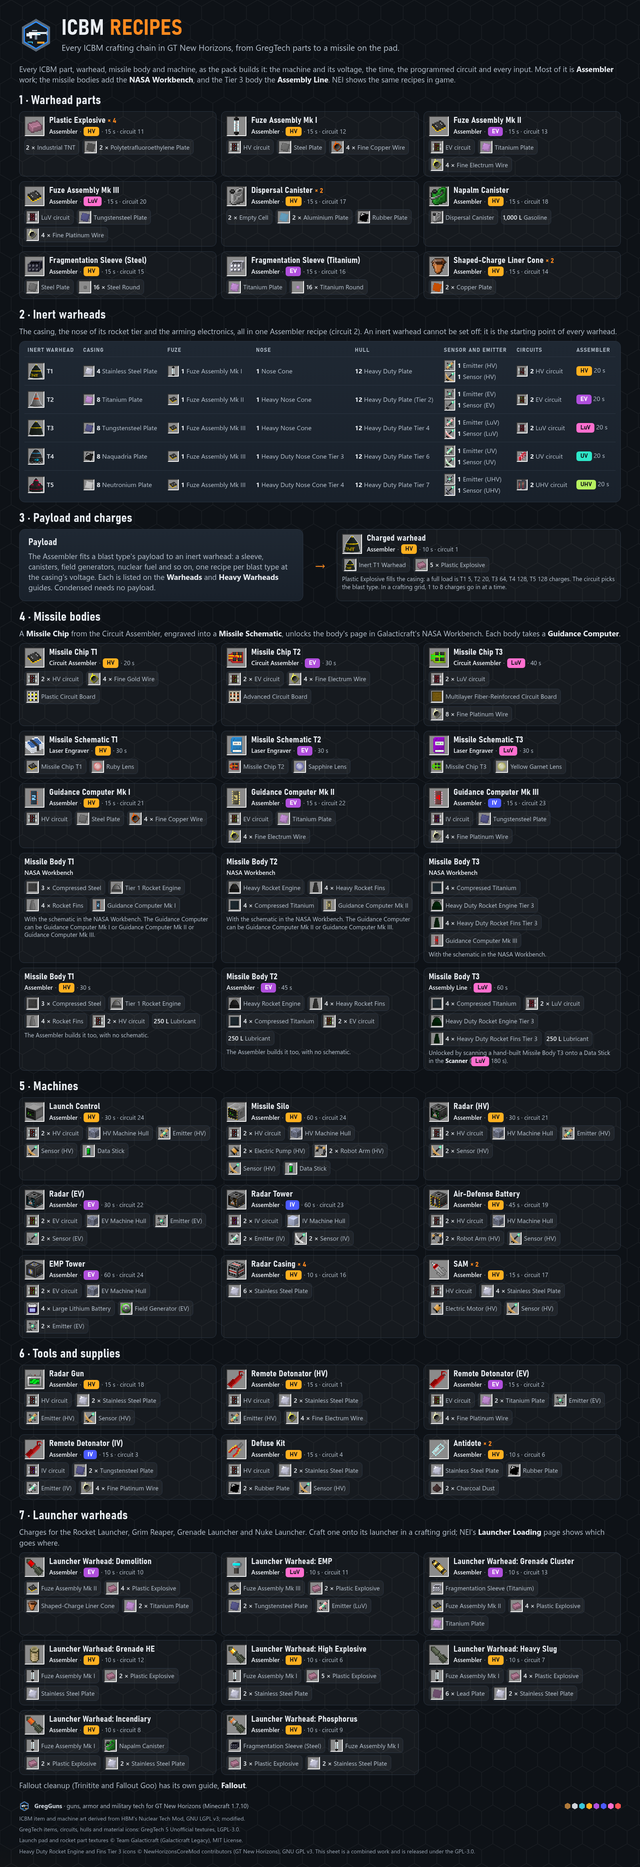
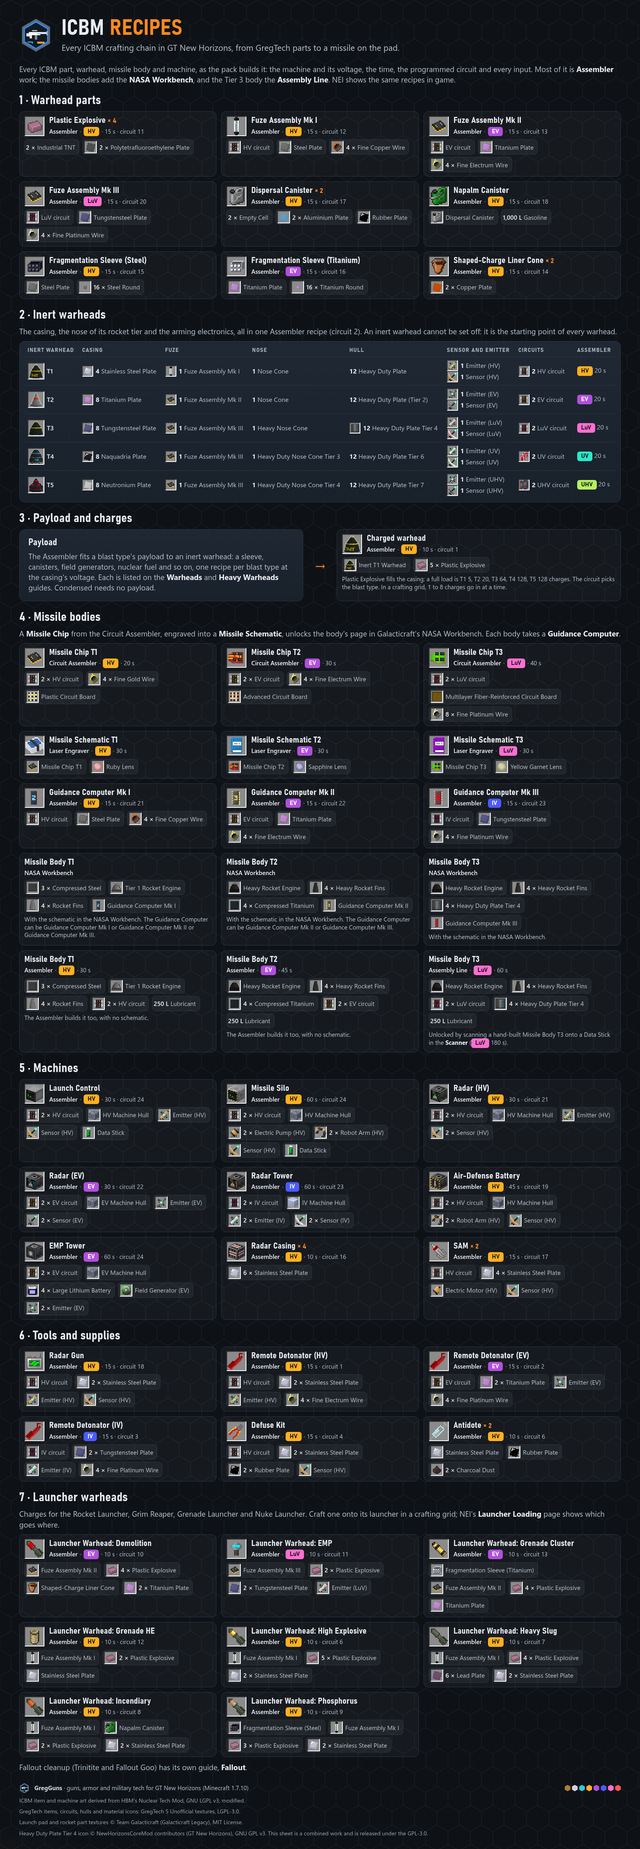
Guides on the tier fixes: warhead, recipes, silo and missile sheets rebuilt from F2's dump and code; F1, F2, F4 release-note lines
- Rebuilt on F2's real-pack dump: the Inert T2 Warhead takes a Nose Cone, and the T3 body is built from
  Heavy Duty Plates Tier 4, Heavy Rocket Fins and a Heavy Rocket Engine (icbm-warheads, icbm-recipes,
  icbm-missile-silo's Tier 3 card). icbm-first-missile names the rocket parts as the game does.
- The recipes sheet reads dump keys that carry an NBT hash, and picks the inert warhead's own recipe.
- The core-mod icon is the Heavy Duty Plate Tier 4 (GPL-3.0, from NewHorizonsCoreMod 2.9.84). The unused
  Tier 3 rocket engine and fins icons are gone. NOTICE, CREDITS and the sheet credit follow.
- unreleased.md: the T2 casing and T3 body, F2's missile/rocket ratios, the silo abort recovery and EMP silence,
  176 vending trades with eggs only for spawnable NPCs.

diff --git a/tools/asset-gen/infographics/pages_icbm_recipes.py b/tools/asset-gen/infographics/pages_icbm_recipes.py
@@ -14,7 +14,7 @@ The dump is checked against the code: each Inert Warhead's input list must match
 and each machine recipe must still be in its Java source, so a dump older than the recipes stops the build.
 
 Icons: GregGuns' own item art (the NTM-derived icons, LGPL-3.0), GregTech's items, hulls and material icons from the GT
-jar (LGPL-3.0), Galacticraft Legacy's rocket parts and NewHorizonsCoreMod's Tier 3 rocket parts from
+jar (LGPL-3.0), Galacticraft Legacy's rocket parts and NewHorizonsCoreMod's Heavy Duty Plate Tier 4 from
 inputs/thirdparty/ (MIT and GPL-3.0). Ingredients without a licensed icon are printed by name only.
 
 Run on its own:  python tools/asset-gen/infographics/pages_icbm_recipes.py
@@ -84,8 +84,13 @@ def rows(pred) -> list[dict]:
     return [r for r in dump()["rows"] if r["outputs"] and pred(r)]
 
 
+def base(key: str) -> str:
+    """A dump key without its `#nbt<hash>` suffix (stacks that carry NBT, such as a warhead with its payload)."""
+    return key.split("#", 1)[0]
+
+
 def out_key(r: dict) -> str:
-    return r["outputs"][0]["k"]
+    return base(r["outputs"][0]["k"])
 
 
 def by_output(key: str, mp: str | None = None, circuit: int | None = None) -> list[dict]:
@@ -93,6 +98,15 @@ def by_output(key: str, mp: str | None = None, circuit: int | None = None) -> li
     if not got:
         raise SystemExit(f"the recipe dump has no {mp or 'recipe'} for {key}; dump the pack again or update pages_icbm_recipes")
     return got
+
+
+def inert_row(t: int) -> dict:
+    """The Inert Warhead's own recipe (circuit 2): the one row for it that takes no inert warhead in."""
+    got = [r for r in by_output(f"gregguns:inert_warhead_t{t}:0", "gt.recipe.assembler", 2)
+           if not any("inert_warhead" in i["k"] for i in r["inputs"])]
+    if len(got) != 1:
+        raise SystemExit(f"expected one Inert T{t} Warhead recipe in the dump, found {len(got)}")
+    return got[0]
 
 
 # ---------------------------------------------------------------- names
@@ -186,6 +200,7 @@ MAP_NAME = {"gt.recipe.assembler": "Assembler", "gregguns.missileWorkbench": "NA
 
 def name(key: str) -> str:
     """The in-game name of a dump item key (mod:item:meta)."""
+    key = base(key)
     if key in FIXED:
         return FIXED[key]
     if key in FLUID:
@@ -241,8 +256,7 @@ def _gt_item_tex(folder: str, n: int) -> Path | None:
 
 
 GT_CIRCUIT_ICON = {"HV": 82, "EV": 85, "IV": 89, "LuV": 92, "ZPM": 93, "UV": 94, "UHV": 95}  # one GT circuit of the tier
-NHCORE_ICONS = {"dreamcraft:HeavyDutyRocketEngineTier3:0": TP.NHCORE / "heavy_duty_rocket_engine_t3.png",
-                "dreamcraft:HeavyDutyRocketFinsTier3:0": TP.NHCORE / "heavy_duty_rocket_fins_t3.png"}
+NHCORE_ICONS = {"dreamcraft:HeavyDutyPlateTier4:0": TP.NHCORE / "heavy_duty_plate_t4.png"}
 GC_ICONS = {"GalacticraftCore:item.basicItem:9": "compressed_steel", "GalacticraftCore:item.engine:0": "rocket_engine_t1",
             "GalacticraftCore:item.rocketFins:0": "rocket_fins_t1", "GalacticraftMars:item.itemBasicAsteroids:1": "rocket_engine_t2",
             "GalacticraftMars:item.itemBasicAsteroids:2": "rocket_fins_t2", "GalacticraftMars:item.itemBasicAsteroids:6": "compressed_titanium"}
@@ -268,6 +282,7 @@ def cube(tex: Path, tag: str) -> Path:
 
 def icon(key: str) -> Path | None:
     """A licensed icon for a dump key, or None (the ingredient is then named only)."""
+    key = base(key)
     mod, item, meta = key.rsplit(":", 2) if key.count(":") >= 2 else (key, "", "0")
     if mod == "gregguns":
         if item.startswith(("warhead_t", "inert_warhead_t")):
@@ -321,7 +336,7 @@ def _verify() -> None:
             if m:
                 c = m.group(1).split(",")[-1]
                 counts.append(consts[c.split(".")[-1]] if not c.isdigit() else int(c))
-        got = sorted(i["n"] for i in by_output(f"gregguns:inert_warhead_t{t}:0", "gt.recipe.assembler", 2)[0]["inputs"])
+        got = sorted(i["n"] for i in inert_row(t)["inputs"])
         if sorted(counts) != got:
             raise SystemExit(f"the recipe dump's Inert T{t} Warhead ({got}) differs from InertWarheadSpec ({sorted(counts)}); dump the pack again")
     machines = {"icbm/control/ControlMachines.java": ("Sensor_HV", "Emitter_HV", "Tool_DataStick"),
@@ -412,7 +427,7 @@ def inert_table() -> str:
     head = "<tr><th>Inert warhead</th><th>Casing</th><th>Fuze</th><th>Nose</th><th>Hull</th><th>Sensor and emitter</th><th>Circuits</th><th>Assembler</th></tr>"
     body = []
     for t in range(1, 6):
-        r = by_output(f"gregguns:inert_warhead_t{t}:0", "gt.recipe.assembler", 2)[0]
+        r = inert_row(t)
         ins = {i["k"]: i["n"] for i in r["inputs"]}
 
         def pick(test):

diff --git a/tools/asset-gen/infographics/pages_icbm_missile.py b/tools/asset-gen/infographics/pages_icbm_missile.py
@@ -120,7 +120,7 @@ def _verify() -> None:
     need(t1, 'Tier.HV', '"craftingLensRed"', 'Ing.gt("compressed", "Steel", 3', "FINS_T1, 4", "ENGINE_T1, 1",
          "GUIDANCE_COMPUTER_MK1, IcbmPart.GUIDANCE_COMPUTER_MK2, IcbmPart.GUIDANCE_COMPUTER_MK3",
          '"Circuit_Board_Plastic_Advanced", 1', 'Ing.gt("circuit", "Advanced", 2', 'Ing.gt("wireFine", "Gold"', where="MissileBuildSpec.T1")
-    need(t2, 'Tier.EV', '"craftingLensBlue"', 'Ing.gt("compressed", "Titanium", 4', "FINS_T2, 4", "ENGINE_T2, 1",
+    need(t2, 'Tier.EV', '"craftingLensBlue"', 'Ing.gt("compressed", "Titanium", 4', "FINS_HEAVY, 4", "ENGINE_HEAVY, 1",
          "Arrays.asList(IcbmPart.GUIDANCE_COMPUTER_MK2, IcbmPart.GUIDANCE_COMPUTER_MK3)",
          '"Circuit_Board_Epoxy_Advanced", 1', 'Ing.gt("circuit", "Data", 2', 'Ing.gt("wireFine", "Electrum"', where="MissileBuildSpec.T2")
     lc = src("icbm/control/ControlMachines.java")
@@ -149,23 +149,23 @@ def _words(n: int) -> str:
 
 TIERS = {
     1: dict(body="missile_body_t1", warhead="warhead_t1", volt="HV", fuel="RP-1 or Cetane-Boosted Diesel", warheads="T1",
-            plates="3 compressed steel", fins="4 Galacticraft Tier 1", engine="Galacticraft Tier 1 engine"),
+            plates="3 compressed steel", fins="4 Rocket Fins", engine="a Tier 1 Rocket Engine"),
     2: dict(body="missile_body_t2", warhead="warhead_t2", volt="EV", fuel="Dense Hydrazine", warheads="T1 or T2",
-            plates="4 compressed titanium", fins="4 Galacticraft Tier 2", engine="Galacticraft Tier 2 engine"),
+            plates="4 compressed titanium", fins="4 Heavy Rocket Fins", engine="a Heavy Rocket Engine"),
 }
 for _n, _t in TIERS.items():
     s = TIERS_SRC[_n]
     _t.update(fuel_mb=s["fuel_mb"], rng=s["rng"], speed=f"{s['speed']:g}", scatter=int(s["scatter"]), cap=CAPS[_n],
               flight=_minutes(s["rng"] / s["speed"] / 20))
-PARTS = {1: dict(plate="compressed_steel", plate_n=3, plate_l="Compressed Steel Plate", fins="rocket_fins_t1", engine="rocket_engine_t1", ft="Tier 1"),
-         2: dict(plate="compressed_titanium", plate_n=4, plate_l="Compressed Titanium Plate", fins="rocket_fins_t2", engine="rocket_engine_t2", ft="Tier 2")}
+PARTS = {1: dict(plate="compressed_steel", plate_n=3, plate_l="Compressed Steel Plate", fins="rocket_fins_t1", engine="rocket_engine_t1", fl="Rocket Fins", el="Tier 1 Rocket Engine"),
+         2: dict(plate="compressed_titanium", plate_n=4, plate_l="Compressed Titanium Plate", fins="rocket_fins_t2", engine="rocket_engine_t2", fl="Heavy Rocket Fins", el="Heavy Rocket Engine")}
 
 
 def body_parts(n: int, px: int = 52) -> str:
     """The body recipe's parts as Galacticraft's own icons."""
     q = PARTS[n]
-    return (TP.part(TP.gc_icon(q["plate"]), q["plate_n"], q["plate_l"], px) + TP.part(TP.gc_icon(q["fins"]), 4, f"{q['ft']} Rocket Fins", px)
-            + TP.part(TP.gc_icon(q["engine"]), 1, f"{q['ft']} Rocket Engine", px))
+    return (TP.part(TP.gc_icon(q["plate"]), q["plate_n"], q["plate_l"], px) + TP.part(TP.gc_icon(q["fins"]), 4, q["fl"], px)
+            + TP.part(TP.gc_icon(q["engine"]), 1, q["el"], px))
 
 CSS = """
 .stat .chip.t-HV, .stat .chip.t-MV { color: #1a1200; }
@@ -253,7 +253,7 @@ def first_missile() -> str:
                "Slot the schematic into the Galacticraft <b>NASA Workbench</b> and the page for that missile opens.")
     s3 = _step(3, "Build the body by hand",
                f"<div class='parts' style='gap:2px'>{body_parts(1, 44)}</div><span class='plus'>or</span><div class='parts' style='gap:2px'>{body_parts(2, 44)}</div>{plus}<span class='pill'>Guidance Computer</span>{arrow}<span class='pill'>Missile Body</span>",
-               "On the NASA Workbench page: <b>compressed plates</b> in one column (T1 three steel, T2 four titanium), <b>four Galacticraft rocket fins</b> and a <b>Galacticraft rocket engine</b> of the same tier, and a "
+               "On the NASA Workbench page: <b>compressed plates</b> in one column (T1 three steel, T2 four titanium), <b>four rocket fins</b> and a <b>rocket engine</b> (T1 the Rocket Fins and Tier 1 Rocket Engine, T2 the Heavy Rocket Fins and Heavy Rocket Engine), and a "
                "<b>Guidance Computer</b>: Mk I, II or III for T1, Mk II or III for T2. Make compressed plates from a plate in the Implosion Compressor. There is no warhead slot: a warhead goes on at the pad.")
     s3b = _step(4, "Or automate it",
                 f"<span class='pill'>Body parts</span>{plus}<span class='pill'>2 circuits</span>{plus}<span class='pill'>Lubricant</span>{arrow}{asm}{arrow}<span class='pill'>Missile Body</span>",

diff --git a/tools/asset-gen/infographics/pages_icbm_silo.py b/tools/asset-gen/infographics/pages_icbm_silo.py
@@ -119,7 +119,7 @@ def _verify() -> None:
     hc = re.search(r"HATCH_COLUMN_RIGHT = (\d+);", src(SILO_SHAPE))
     assert hc and int(hc.group(1)) == 0 and LAUNCH_CONTROL[0] == 0, "the right-hand hatch column moved"
     t3 = build_spec(3)
-    need(t3, "Tier.LUV", '"craftingLensYellow"', 'Ing.gt("compressed", "Titanium", 4', "FINS_T3, 4", "ENGINE_T3, 1",
+    need(t3, "Tier.LUV", '"craftingLensYellow"', "GalacticraftParts.HULL_T3, 4,", "GalacticraftParts.FINS_HEAVY, 4,", "GalacticraftParts.ENGINE_HEAVY, 1,",
          "Arrays.asList(IcbmPart.GUIDANCE_COMPUTER_MK3)", "180, Tier.LUV,", '"Circuit_Board_Multifiberglass", 1',
          'Ing.gt("circuit", "Master", 2', 'Ing.gt("wireFine", "Platinum"', where="MissileBuildSpec.T3")
     need(src("icbm/missile/MissileTier.java"), 'T3("missile_body_t3", ExplosiveTier.T3, 8000, 20, 8000, 1.6, 6.0, 6, 60.0F, "fluid.rocketfuelmixc",\n        "fluid.rocketfuelmixa")',
@@ -337,9 +337,9 @@ def silo() -> str:
             ("Maintenance Hatch (1)", "as on any GregTech multiblock"),
         ])
     parts = "".join([
-        TP.part(TP.gc_icon("compressed_titanium"), 4, "Compressed Titanium Plate", 72),
-        TP.part(TP.NHCORE / "heavy_duty_rocket_fins_t3.png", 4, "Heavy Duty Rocket Fins Tier 3", 72),
-        TP.part(TP.NHCORE / "heavy_duty_rocket_engine_t3.png", 1, "Heavy Duty Rocket Engine Tier 3", 72),
+        TP.part(TP.NHCORE / "heavy_duty_plate_t4.png", 4, "Heavy Duty Plate Tier 4", 72),
+        TP.part(TP.gc_icon("rocket_fins_t2"), 4, "Heavy Rocket Fins", 72),
+        TP.part(TP.gc_icon("rocket_engine_t2"), 1, "Heavy Rocket Engine", 72),
         f'<span class="part" style="width:420px"><span class="pl"><b style="display:block">Also needed</b>a LuV missile chip (Multifiberglass board, 2 Master circuits and platinum fine wire in the Circuit Assembler), engraved with a Yellow lens, and a Guidance Computer Mk III.</span></span>'])
     t1r, t2r, t3r = (MT[k]["rng"] * RANGE_X for k in (1, 2, 3))
     body = f"""<div style="display:grid;grid-template-columns:1fr 470px;gap:20px">

diff --git a/tools/asset-gen/infographics/pages_icbm.py b/tools/asset-gen/infographics/pages_icbm.py
@@ -147,7 +147,7 @@ INERT = {
             fuze="MK1", fuze_name="Mk I", nose=("NOSE_T1", "GalacticraftCore:item.noseCone@0", "a Nose Cone"),
             hull=("HULL_T1", "GalacticraftCore:item.heavyPlating@0", "12 Heavy Duty Plates"), etier="HV", circuit="Advanced"),
     2: dict(volt=4, chip="EV", plate="Titanium", plate_name="titanium", plates=8, plates_const="T2_PLATES",
-            fuze="MK2", fuze_name="Mk II", nose=("NOSE_HEAVY", "GalacticraftMars:item.heavyNoseCone@0", "a Heavy Nose Cone"),
+            fuze="MK2", fuze_name="Mk II", nose=("NOSE_T2", "NOSE_T1", "a Nose Cone"),
             hull=("HULL_T2", "GalacticraftMars:item.null@3", "12 Heavy Duty Plates (Tier 2)"), etier="EV", circuit="Data"),
     3: dict(volt=6, chip="LuV", plate="TungstenSteel", plate_name="tungstensteel", plates=8, plates_const="T3_PLATES",
             fuze="MK3", fuze_name="Mk III", nose=("NOSE_HEAVY", "GalacticraftMars:item.heavyNoseCone@0", "a Heavy Nose Cone"),
@@ -169,6 +169,11 @@ def inert_words(t: int, fuze_full=True) -> str:
             f"an {c['etier']} Sensor, an {c['etier']} Emitter and 2 {c['etier']} circuits")
 
 
+def _gc_def(name: str, value: str) -> str:
+    """How GalacticraftParts defines a part: an item id in quotes, or another part's constant (an alias)."""
+    return f"{name} = {value};" if re.fullmatch(r"[A-Z0-9_]+", value) else f'{name} = "{value}";'
+
+
 def verify_inert(tiers) -> None:
     """Each listed casing's inert warhead recipe, entry by entry, its plate count and the items its nose and hull name."""
     want = {}
@@ -183,7 +188,7 @@ def verify_inert(tiers) -> None:
     for t in tiers:
         c = INERT[t]
         need += [(_RECIPES, f"{c['plates_const']} = {c['plates']};"),
-                 (_GC, f'{c["nose"][0]} = "{c["nose"][1]}";'), (_GC, f'{c["hull"][0]} = "{c["hull"][1]}";')]
+                 (_GC, _gc_def(*c["nose"][:2])), (_GC, _gc_def(*c["hull"][:2]))]
     check_snippets("InertWarheadSpec/WarheadRecipes/GalacticraftParts", need)
 
 

diff --git a/tools/asset-gen/infographics/thirdparty.py b/tools/asset-gen/infographics/thirdparty.py
@@ -1,5 +1,5 @@
 """Third-party art for the ICBM guide sheets: Galacticraft's launch pad and rocket parts (MIT, D85), the core mod's
-Tier 3 rocket parts (GPL-3.0, D86), the formed launch pad, and the tinted vanilla grass, leaves and logs the worldgen views need.
+Heavy Duty Plate Tier 4 (GPL-3.0, D86), the formed launch pad, and the tinted vanilla grass, leaves and logs the worldgen views need.
 Also the Backpack mod's Tanned Leather icon (LGPL-3.0), which the recipes sheet shows as an armor ingredient.
 
 The Galacticraft, core-mod and Backpack files are read from inputs/thirdparty/ beside this script, never from a jar and never
@@ -31,7 +31,7 @@ BACKPACK_TANNED_LEATHER = INPUTS / "backpack/tanned_leather.png"
 PAD_HEIGHT = 0.4   # the formed launch pad's top tier ends 0.4 of a block above the floor; a missile stands on it
 
 GC_CREDIT = ("Launch pad and rocket part textures © Team Galacticraft (Galacticraft Legacy), MIT License.")
-CORE_CREDIT = ("Heavy Duty Rocket Engine and Fins Tier 3 icons © NewHorizonsCoreMod contributors (GT New Horizons), "
+CORE_CREDIT = ("Heavy Duty Plate Tier 4 icon © NewHorizonsCoreMod contributors (GT New Horizons), "
                "GNU GPL v3. This sheet is a combined work and is released under the GPL-3.0.")
 TC_CREDIT = ("Clear Glass texture © the Tinkers' Construct authors (GT New Horizons fork), GNU LGPL v3.")
 BACKPACK_CREDIT = ("Tanned Leather icon \u00a9 the Backpack mod authors (Eydamos, GT New Horizons fork), GNU LGPL v3.")

diff --git a/docs/assets/CREDITS.md b/docs/assets/CREDITS.md
@@ -28,12 +28,12 @@
 | infographics/recipes-steam-and-lv.png | Claude (Anthropic) via tools/asset-gen/infographics/build.py | HTML laid out in Python, PNG via Playwright + Edge; 3D renders of the mod's own models, textures and block layouts by tools/asset-gen/infographics/render3d.py; includes GregTech 5 Unofficial textures (hulls, machine overlays, component and tool icons, material icons); vanilla ingredient icons are Mojang's textures, read unmodified from the vanilla 1.7.10 client jar at build time by tools/asset-gen/infographics/vanilla.py (not stored in the repo) and credited in the sheet footer; the Backpack mod's Tanned Leather icon (tools/asset-gen/infographics/inputs/thirdparty/backpack/, LGPL-3.0), credited in the sheet footer | MIT, except the GregTech textures it shows (LGPL-3.0), the Backpack mod's Tanned Leather icon (LGPL-3.0), and Mojang's Minecraft textures it shows (used under Mojang's usage guidelines) | 2026-10-30 |
 | infographics/icbm-warheads.png | Claude (Anthropic) via tools/asset-gen/infographics/build.py (pages_icbm.py) | HTML laid out in Python, PNG via Playwright; 3D renders of the shipped warhead OBJ models (HBM's Nuclear Tech Mod contributors, LGPL-3.0, modified; see warhead_t1, warhead_t2, warhead_t3, warhead_exothermic, warhead_endothermic and warhead_nuclear above) by tools/asset-gen/infographics/render3d.py; includes GregTech 5 Unofficial textures (hulls, machine overlays, casings, plate icons) read from the pack's GT jar; the TNT, Flint and Steel and Fire Charge icons are the real Minecraft textures, read from the Minecraft 1.7.10 client jar at build time and never stored in the repo (D55); numbers read from the code (the Tier 3 and nuclear cards from D80 to D84 and WarheadRecipeSpec) | MIT, except the NTM warhead art it shows (LGPL-3.0, credited in its footer), the GregTech textures (LGPL-3.0) and the Minecraft textures (© Mojang / Microsoft, shown under Mojang's usage guidelines and credited in its footer) | 2026-10-26 |
 | infographics/icbm-first-missile.png | Claude (Anthropic) via tools/asset-gen/infographics/build.py (pages_icbm_missile.py) | HTML laid out in Python, PNG via Playwright; 3D renders of the shipped missile body and warhead OBJ models (HBM's Nuclear Tech Mod contributors, LGPL-3.0, modified; see missile_body_t1, missile_body_t2, warhead_t1 and warhead_t2 above) by tools/asset-gen/infographics/render3d.py; includes GregTech 5 Unofficial textures (hulls, machine overlays, plate icons) read from the pack's GT jar; Galacticraft Legacy's launch pad texture and compressed plate, rocket fin and engine icons from the thirdparty folder (D85); numbers read from the code | MIT, except the NTM warhead art it shows (LGPL-3.0, credited in its footer), the Galacticraft textures (MIT, credited in its footer) and the GregTech textures (LGPL-3.0) | 2026-10-26 |
-| infographics/icbm-missile-silo.png | Claude (Anthropic) via tools/asset-gen/infographics/build.py (pages_icbm_silo.py) | HTML laid out in Python, PNG via Playwright; 3D renders of the shipped missile body and warhead OBJ models standing in the silo (HBM's Nuclear Tech Mod contributors, LGPL-3.0, modified; see missile_body_t3 and warhead_t3 above) by tools/asset-gen/infographics/render3d.py; includes GregTech 5 Unofficial textures (hulls, machine overlays, plate icons) read from the pack's GT jar; the silo is drawn from the mod's own Gantry Casing and Gantry Beam art with Galacticraft Legacy's launch pad (MIT, D85) and the NewHorizonsCoreMod Heavy Duty Rocket Engine and Fins Tier 3 icons (GPL-3.0, D86); the ground, sand, logs, stone and dirt are the real Minecraft textures, grass and leaves tinted green as the game does, read from the Minecraft 1.7.10 client jar at build time and never stored in the repo (D55); numbers read from the code | **GPL-3.0** as a combined work with the NewHorizonsCoreMod icons it paints in (credited in its footer); its other parts keep their own licenses: our art MIT, the Galacticraft art MIT, the NTM art LGPL-3.0, the GregTech hatch overlays LGPL-3.0, the Minecraft textures © Mojang / Microsoft | 2026-10-26 |
+| infographics/icbm-missile-silo.png | Claude (Anthropic) via tools/asset-gen/infographics/build.py (pages_icbm_silo.py) | HTML laid out in Python, PNG via Playwright; 3D renders of the shipped missile body and warhead OBJ models standing in the silo (HBM's Nuclear Tech Mod contributors, LGPL-3.0, modified; see missile_body_t3 and warhead_t3 above) by tools/asset-gen/infographics/render3d.py; includes GregTech 5 Unofficial textures (hulls, machine overlays, plate icons) read from the pack's GT jar; the silo is drawn from the mod's own Gantry Casing and Gantry Beam art with Galacticraft Legacy's launch pad (MIT, D85) and the NewHorizonsCoreMod Heavy Duty Plate Tier 4 icon (GPL-3.0, D86); the ground, sand, logs, stone and dirt are the real Minecraft textures, grass and leaves tinted green as the game does, read from the Minecraft 1.7.10 client jar at build time and never stored in the repo (D55); numbers read from the code | **GPL-3.0** as a combined work with the NewHorizonsCoreMod icons it paints in (credited in its footer); its other parts keep their own licenses: our art MIT, the Galacticraft art MIT, the NTM art LGPL-3.0, the GregTech hatch overlays LGPL-3.0, the Minecraft textures © Mojang / Microsoft | 2026-10-26 |
 | infographics/icbm-silos.png | Claude (Anthropic) via tools/asset-gen/infographics/build.py (pages_icbm_silos.py, complex_map.py) | HTML laid out in Python, PNG via Playwright; the layout map is painted from the ComplexExportTest dump of the real complex plan; 3D renders of the shipped Silo Complex Wall (connected textures), Works and Gantry Casing, Radar Casing and radar dish (HBM's Nuclear Tech Mod contributors, LGPL-3.0, modified) and the silo front wall; includes GregTech 5 Unofficial textures (machine hulls, hatch overlays, Light and Dark Concrete Bricks, Smooth Concrete, the Steel Frame Box, 4x cable and large fluid pipe, and the machine casings of the Ross128 door frames) read from the pack's GT jar; the blast doors are drawn as diagrams, Galacticraft Legacy's launch pad (MIT, D85) and the Tinkers' Construct Clear Glass; the grass, dirt, stone, quartz, glowstone and the monster spawner (guard posts) are the real Minecraft textures, grass tinted green as the game does, read from the Minecraft 1.7.10 client jar at build time and never stored in the repo (D55); no in-game screenshots; numbers read from the code | our art MIT, the NTM art LGPL-3.0, the GregTech textures LGPL-3.0, the Galacticraft art MIT, the Tinkers' Construct glass LGPL-3.0, the Minecraft textures © Mojang / Microsoft | 2026-10-31 |
 | infographics/icbm-warheads-heavy.png | Claude (Anthropic) via tools/asset-gen/infographics/build.py (pages_icbm_heavy.py) | HTML laid out in Python, PNG via Playwright; 3D renders of the shipped heavy warhead OBJ models (HBM's Nuclear Tech Mod contributors, LGPL-3.0, modified; see warhead_t3 to warhead_t5, warhead_exothermic, warhead_endothermic, warhead_nuclear, warhead_antimatter, warhead_redmatter, warhead_ender and warhead_antigrav above) and the launcher warhead icons; includes GregTech 5 Unofficial textures read from the pack's GT jar; numbers read from the code and the warhead dump | MIT, except the NTM art it shows (LGPL-3.0, credited in its footer) and the GregTech textures (LGPL-3.0) | 2026-10-31 |
 | infographics/icbm-detection-and-defense.png | Claude (Anthropic) via tools/asset-gen/infographics/build.py (pages_icbm_defense.py) | HTML laid out in Python, PNG via Playwright; 3D renders of the radars, Radar Tower, Air-Defense Battery and EMP Tower from their shipped overlays and the radar dish and SAM models (HBM's Nuclear Tech Mod contributors, LGPL-3.0, modified), the handheld tool icons; includes GregTech 5 Unofficial textures (hulls) read from the pack's GT jar; numbers read from the code | MIT, except the NTM art it shows (LGPL-3.0, credited in its footer) and the GregTech textures (LGPL-3.0) | 2026-10-31 |
 | infographics/icbm-fallout.png | Claude (Anthropic) via tools/asset-gen/infographics/build.py (pages_icbm_fallout.py) | HTML laid out in Python, PNG via Playwright; renders of the shipped irradiated earth, trinitite and fallout goo blocks and the fallout item icons (HBM's Nuclear Tech Mod contributors, LGPL-3.0); includes GregTech 5 Unofficial textures (machines, material icons) read from the pack's GT jar; numbers read from the code | MIT, except the NTM art it shows (LGPL-3.0, credited in its footer) and the GregTech textures (LGPL-3.0) | 2026-10-31 |
-| infographics/icbm-recipes.png | Claude (Anthropic) via tools/asset-gen/infographics/build.py (pages_icbm_recipes.py) | HTML laid out in Python, PNG via Playwright; every row read from a `/gregguns dumprecipes` export of the GTNH 2.9.0-RC-2 server pack and checked against the code; names from the English language files of GregGuns and of the pack's GregTech, Galacticraft and NewHorizonsCoreMod jars; the ICBM item and machine icons (HBM's Nuclear Tech Mod contributors, LGPL-3.0, modified); GregTech 5 Unofficial textures (items, circuits, hulls, material icons) read from the pack's GT jar; Galacticraft Legacy's rocket part icons (MIT, D85) and the NewHorizonsCoreMod Heavy Duty Rocket Engine and Fins Tier 3 icons (GPL-3.0, D86) from the thirdparty folder | **GPL-3.0** as a combined work with the NewHorizonsCoreMod icons it paints in (credited in its footer); its other parts keep their own licenses: our layout MIT, the NTM art LGPL-3.0, the GregTech textures LGPL-3.0, the Galacticraft art MIT | 2026-10-31 |
+| infographics/icbm-recipes.png | Claude (Anthropic) via tools/asset-gen/infographics/build.py (pages_icbm_recipes.py) | HTML laid out in Python, PNG via Playwright; every row read from a `/gregguns dumprecipes` export of the GTNH 2.9.0-RC-2 server pack and checked against the code; names from the English language files of GregGuns and of the pack's GregTech, Galacticraft and NewHorizonsCoreMod jars; the ICBM item and machine icons (HBM's Nuclear Tech Mod contributors, LGPL-3.0, modified); GregTech 5 Unofficial textures (items, circuits, hulls, material icons) read from the pack's GT jar; Galacticraft Legacy's rocket part icons (MIT, D85) and the NewHorizonsCoreMod Heavy Duty Plate Tier 4 icon (GPL-3.0, D86) from the thirdparty folder | **GPL-3.0** as a combined work with the NewHorizonsCoreMod icons it paints in (credited in its footer); its other parts keep their own licenses: our layout MIT, the NTM art LGPL-3.0, the GregTech textures LGPL-3.0, the Galacticraft art MIT | 2026-10-31 |
 | infographics/icbm-hero.png | Claude (Anthropic) via tools/asset-gen/infographics/build.py (pages_icbm_hero.py) | HTML laid out in Python, PNG via Playwright; 3D renders of the shipped warhead, missile body and radar dish OBJ models and the EV radar's overlays (HBM's Nuclear Tech Mod contributors, LGPL-3.0, modified) on Galacticraft Legacy's launch pad (MIT, D85); the blast is a frame of the mod's own explosion sheet; GregTech 5 Unofficial hull textures read from the pack's GT jar | MIT, except the NTM art it shows (LGPL-3.0, credited in its footer), the Galacticraft pad (MIT) and the GregTech textures (LGPL-3.0) | 2026-10-31 |
 
 ## Third-party assets
@@ -98,8 +98,7 @@ Human-made files that are not ours, under CC0, CC-BY, MIT or LGPL (ICBM module; 
 | rocket_fins_t2.png (item icon) | tools/asset-gen/infographics/inputs/thirdparty/galacticraft/rocket_fins_t2.png | Team Galacticraft (Galacticraft Legacy 1.7.10) | https://www.curseforge.com/minecraft/mc-mods/galacticraft-legacy (project 564236, file 4501439, Galacticraft-1.7-3.0.12.504.jar; source https://github.com/TeamGalacticraft/Galacticraft-Legacy), assets/galacticraftasteroids/textures/items/rocketFinsT2.png | MIT (text beside it as LICENSE.txt; the jar itself bundles the old custom license text, owner-accepted risk, D85) | no (renamed only) | 2026-10-26 |
 | rocket_engine_t2.png (item icon) | tools/asset-gen/infographics/inputs/thirdparty/galacticraft/rocket_engine_t2.png | Team Galacticraft (Galacticraft Legacy 1.7.10) | https://www.curseforge.com/minecraft/mc-mods/galacticraft-legacy (project 564236, file 4501439, Galacticraft-1.7-3.0.12.504.jar; source https://github.com/TeamGalacticraft/Galacticraft-Legacy), assets/galacticraftasteroids/textures/items/engineT2.png | MIT (text beside it as LICENSE.txt; the jar itself bundles the old custom license text, owner-accepted risk, D85) | no (renamed only) | 2026-10-26 |
 | compressed_titanium.png (item icon) | tools/asset-gen/infographics/inputs/thirdparty/galacticraft/compressed_titanium.png | Team Galacticraft (Galacticraft Legacy 1.7.10) | https://www.curseforge.com/minecraft/mc-mods/galacticraft-legacy (project 564236, file 4501439, Galacticraft-1.7-3.0.12.504.jar; source https://github.com/TeamGalacticraft/Galacticraft-Legacy), assets/galacticraftasteroids/textures/items/compressedTitanium.png | MIT (text beside it as LICENSE.txt; the jar itself bundles the old custom license text, owner-accepted risk, D85) | no (renamed only) | 2026-10-26 |
-| heavy_duty_rocket_engine_t3.png (item icon) | tools/asset-gen/infographics/inputs/thirdparty/nhcore/heavy_duty_rocket_engine_t3.png | NewHorizonsCoreMod contributors (commit authors Dream-Master, UltraProdigy) | https://github.com/GTNewHorizons/NewHorizonsCoreMod/tree/2.9.84 (src/main/resources/assets/dreamcraft/textures/items/itemHeavyDutyRocketEngineTier3.png) | GPL-3.0 (text beside it as GPL-3.0.txt, NOTICE.txt); any sheet that paints it in is GPL-3.0 (D86) | no (renamed only) | 2026-10-26 |
-| heavy_duty_rocket_fins_t3.png (item icon) | tools/asset-gen/infographics/inputs/thirdparty/nhcore/heavy_duty_rocket_fins_t3.png | NewHorizonsCoreMod contributors (commit authors Dream-Master, UltraProdigy) | https://github.com/GTNewHorizons/NewHorizonsCoreMod/tree/2.9.84 (src/main/resources/assets/dreamcraft/textures/items/itemHeavyDutyRocketFinsTier3.png) | GPL-3.0 (text beside it as GPL-3.0.txt, NOTICE.txt); any sheet that paints it in is GPL-3.0 (D86) | no (renamed only) | 2026-10-26 |
+| heavy_duty_plate_t4.png (item icon) | tools/asset-gen/infographics/inputs/thirdparty/nhcore/heavy_duty_plate_t4.png | NewHorizonsCoreMod contributors | https://github.com/GTNewHorizons/NewHorizonsCoreMod/tree/2.9.84 (src/main/resources/assets/dreamcraft/textures/items/itemHeavyDutyPlateTier4.png) | GPL-3.0 (text beside it as GPL-3.0.txt, NOTICE.txt); any sheet that paints it in is GPL-3.0 (D86) | no (renamed only) | 2026-10-31 |
 | sam_missile.obj (model) | src/main/resources/assets/gregguns/models/thirdparty/ntm/sam_missile.obj | HBM's Nuclear Tech Mod contributors | https://github.com/HbmMods/Hbm-s-Nuclear-Tech-GIT/tree/1.0.27_X5846 (src/main/resources/assets/hbm/models/missile_abm.obj) | LGPL-3.0 (with the GPL-3.0 text beside it as GPL-3.0.txt) | yes: scaled to one block tall (x 1/8.5), nose up, base at y = 0, rewritten as Forge-strict OBJ by tools/asset-gen/icbm/convert_ntm_defense.py | 2026-10-27 |
 | sam_missile.png (texture) | src/main/resources/assets/gregguns/textures/models/thirdparty/ntm/sam_missile.png | HBM's Nuclear Tech Mod contributors | https://github.com/HbmMods/Hbm-s-Nuclear-Tech-GIT/tree/1.0.27_X5846 (src/main/resources/assets/hbm/textures/models/missile/missile_abm.png) | LGPL-3.0 (with the GPL-3.0 text beside it as GPL-3.0.txt) | yes: renamed only | 2026-10-27 |
 | sam_missile.png (item icon) | src/main/resources/assets/gregguns/textures/items/thirdparty/ntm/sam_missile.png | HBM's Nuclear Tech Mod contributors | https://github.com/HbmMods/Hbm-s-Nuclear-Tech-GIT/tree/1.0.27_X5846 (src/main/resources/assets/hbm/textures/items/missile_anti_ballistic.png) | LGPL-3.0 (with the GPL-3.0 text beside it as GPL-3.0.txt) | yes: renamed only | 2026-10-27 |

diff --git a/.changelogs/unreleased.md b/.changelogs/unreleased.md
@@ -56,7 +56,8 @@ Everything under "New: the ICBM module" and "Changed since the alpha" below is n
 
 ### ICBM balance pass
 
-- **Warheads are the expensive part of a missile.** Every Inert Warhead also takes the nose cone and 12 hull plates of its tier's Galacticraft rocket and its arming electronics (a Sensor, an Emitter and 2 circuits of its tier): T1 a Nose Cone and Heavy Duty Plates, T2 a Heavy Nose Cone and Heavy Duty Plates Tier 2, T3 a Heavy Nose Cone and Heavy Duty Plates Tier 4, T4 and T5 the Heavy Duty Nose Cones Tier 3 and 4 with Heavy Duty Plates Tier 6 and 7. A full missile costs about one Galacticraft rocket of its tier.
+- **Warheads are the expensive part of a missile.** Every Inert Warhead also takes the nose cone and 12 hull plates of its tier's Galacticraft rocket and its arming electronics (a Sensor, an Emitter and 2 circuits of its tier): T1 a Nose Cone and Heavy Duty Plates, T2 a Nose Cone and Heavy Duty Plates Tier 2, T3 a Heavy Nose Cone and Heavy Duty Plates Tier 4, T4 and T5 the Heavy Duty Nose Cones Tier 3 and 4 with Heavy Duty Plates Tier 6 and 7. Every casing is buildable at the floor of its tier: the Tier 2 casing at EV. A full missile costs about one Galacticraft rocket of its tier, measured in the pack: T1 0.99 to 1.32 rockets, T2 0.90 to 0.96, T3 1.02 to 2.62, nuclear 0.89, antimatter 1.35, red matter 0.94.
+- **The Tier 3 missile body** is built from the Tier 4 rocket's parts: 4 Heavy Duty Plates Tier 4, 4 Heavy Rocket Fins and a Heavy Rocket Engine, all buildable at LuV, with the same circuits and lubricant. The T3 body has no GT recycling.
 - The **nuclear payload** also takes 2 ZPM Field Generators to hold its core.
 - Silo complex room machines (generators, buffers, pumps, labs and the rest) run mostly LV and MV, with the complex's top tier a rare find; radars and comms gear are unchanged. Inert T1 warheads are rarer in silo chests.
 - The LuV ICBM quests pay an Ordnance III crate and HSS-G plates instead of IV rewards, and the LuV chapter's first quest offers Master circuits and LuV motors.
@@ -74,6 +75,7 @@ Everything under "New: the ICBM module" and "Changed since the alpha" below is n
 - Missile Bodies T1 and T2 are built in the GT Assembler at HV and EV, with no research, as well as in the NASA Workbench. The Tier 3 body stays on the LuV Assembly Line.
 - Missiles sound like Galacticraft rockets: the engine loop starts with the countdown, rises toward ignition, follows the flight and stops on impact, interception or abort.
 - A missile in flight across a server restart resumes its flight and releases its chunk ticket when it lands.
+- A silo never stands the next missile body under a missile that is counting down, so an aborted launch can fire again at once. An EMP-fried missile falls silent.
 
 ### Warheads
 
@@ -104,7 +106,7 @@ Everything under "New: the ICBM module" and "Changed since the alpha" below is n
 ### Everything else
 
 - **GT recycling for nearly every GregGuns item, block and machine,** returning the materials of the cheapest recipe that makes it. Not recyclable on purpose: coins, spawn eggs, fallout, silo complex walls, world blocks from structures, cloth, leather and wooden parts, the Antidote, launcher warheads and guidance chips.
-- **GregGuns Coins and the Vending Machine.** A GregGuns Coin in five values, and 177 trades in the pack's Vending Machine priced in coins by tier, unlocked by each tier's intro quest when the quest line is installed.
+- **GregGuns Coins and the Vending Machine.** A GregGuns Coin in five values, and 176 trades in the pack's Vending Machine priced in coins by tier, unlocked by each tier's intro quest when the quest line is installed. Spawn eggs are offered only for NPC kinds that can spawn under the server's config.
 - **Quest loot bags.** GregGuns quests reward GregGuns EnhancedLootBags bags (ids 1701 to 1714): eight tier bags, Spoils of War and the ICBM Ordnance crates.
 - **Tanned Leather.** GregGuns armor, its repairs, the Night Vision Goggles, the Ammo Pouch and the glider parts take the pack's Tanned Leather; mobs and loot bags drop it.
 - **Nuclear Power Cell.** The Nuclear Death Ray takes one as its power core; the cell recipe makes one cell from half the materials. The cell, the Small Nuclear Warhead and the Rad Emitter are radioactive to carry without full hazmat.

diff --git a/docs/assets/MANIFEST.md b/docs/assets/MANIFEST.md
@@ -951,7 +951,7 @@ The machine-readable twin is [tools/asset-gen/manifest.json](../../tools/asset-g
 | `info.icbm_detection_and_defense` | `docs/assets/infographics/icbm-detection-and-defense.png` | 1600x5042 | Player guide: radars and their ranges, the Radar Tower, the Air-Defense Battery and SAMs, the EMP Tower and the handheld tools. Shows HBM's Nuclear Tech Mod art (LGPL-3.0). Built by tools/asset-gen/infographics/build.py; no vector source. [Delivered: generated by tools/asset-gen/branding.py.] | #808080 #FF8000 #101418 #F2F2F2 | (new) | P2 |
 | `info.icbm_fallout` | `docs/assets/infographics/icbm-fallout.png` | 1600x2796 | Player guide: fallout zones, the hazard and protection, the Antidote, and the processing chain with its yields. Shows HBM's Nuclear Tech Mod block art (LGPL-3.0). Built by tools/asset-gen/infographics/build.py; no vector source. [Delivered: generated by tools/asset-gen/branding.py.] | #808080 #FF8000 #101418 #F2F2F2 | (new) | P2 |
 | `info.icbm_silos` | `docs/assets/infographics/icbm-silos.png` | 1600x9923 | Player guide: abandoned silo complexes, their layout map, rooms, blast doors and service runs, the three activity levels, guards, loot by planet, taking a silo over, radar stations and the data stick. Built by tools/asset-gen/infographics/build.py; no vector source. [Delivered: generated by tools/asset-gen/branding.py.] | #808080 #FF8000 #101418 #F2F2F2 | (new) | P2 |
-| `info.icbm_recipes` | `docs/assets/infographics/icbm-recipes.png` | 1600x4665 | Player guide: every ICBM crafting chain (warhead parts, inert warheads, charges, missile bodies, machines, tools, launcher warheads), read from a real-pack recipe export. Paints in two NewHorizonsCoreMod icons, so the sheet is GPL-3.0. Built by tools/asset-gen/infographics/build.py; no vector source. [Delivered: generated by tools/asset-gen/branding.py.] | #808080 #FF8000 #101418 #F2F2F2 | (new) | P2 |
+| `info.icbm_recipes` | `docs/assets/infographics/icbm-recipes.png` | 1600x4619 | Player guide: every ICBM crafting chain (warhead parts, inert warheads, charges, missile bodies, machines, tools, launcher warheads), read from a real-pack recipe export. Paints in two NewHorizonsCoreMod icons, so the sheet is GPL-3.0. Built by tools/asset-gen/infographics/build.py; no vector source. [Delivered: generated by tools/asset-gen/branding.py.] | #808080 #FF8000 #101418 #F2F2F2 | (new) | P2 |
 
 ## 10. Excluded on purpose
 
